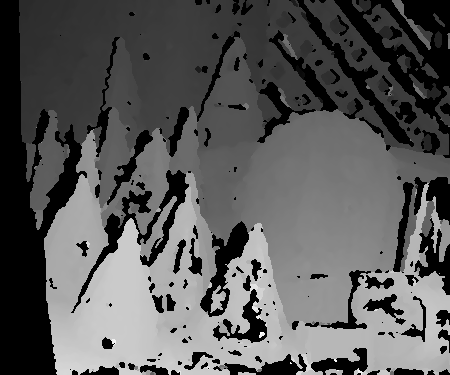
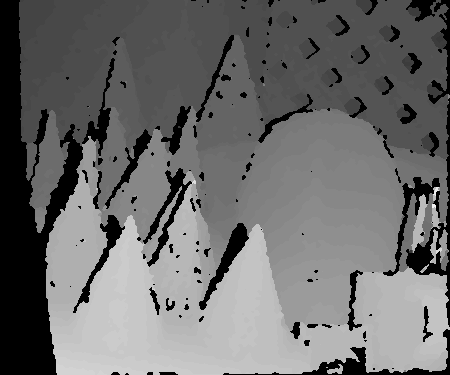
2022_08_09_Test

diff --git a/SemiGlobalMatching.cpp b/SemiGlobalMatching.cpp
@@ -65,57 +65,6 @@ SemiGlobalMatching::initialize(const uint32 &width, const uint32 &height, const 
     return this->isInitialized_;
 }
 
-//bool SemiGlobalMatching::match(const uint8 *imgLeft, const uint8 *imgRight, float32 *dispLeft) {
-//    if (!this->isInitialized_) {
-//        return false;
-//    }
-//
-//    if (imgLeft == nullptr || imgRight == nullptr) {
-//        return false;
-//    }
-//
-//    this->imgLeft_ = imgLeft;
-//    this->imgRight_ = imgRight;
-//
-//    // census变换
-//    censusTransform();
-//
-//    // 代价计算
-//    computeCostCensus();
-//
-//    // 代价聚合
-//    costAggregation();
-//    SGMUtil::costAggregateBilateralFiltering(this->imgLeft_, this->width_, this->height_,
-//                                             this->option_.minDisparity, this->option_.maxDisparity,
-//                                             5, 20, 5, this->costInit_, this->costAggr_);
-//
-//
-//    // 视差计算
-//    computeDisparityBase();
-//    computeDisparityBase2();
-//    computeDisparity();
-//
-//    // 左右一致性检查
-//    if (option_.isCheckLR) {
-//        // 视差计算（右影像）
-//        computeDisparityRight();
-//        // 一致性检查
-//        lrCheck();
-//    }
-//
-//    // 移除小连通区
-//    if (option_.isRemoveSpeckles) {
-//        SGMUtil::removeSpeckles(dispLeft_, width_, height_, option_.diffRange, option_.minSpeckleArea, Invalid_Float);
-//    }
-//
-//    // 中值滤波
-//    SGMUtil::medianFilter(dispLeft_, dispLeft_, width_, height_, 3);
-//
-//    memcpy(dispLeft, this->dispLeft_, this->width_ * this->height_ * sizeof(float32));
-//
-//    return true;
-//}
-
 bool SemiGlobalMatching::match(const uint8 *imgLeft, const uint8 *imgRight, float32 *dispLeft) {
     if (!this->isInitialized_) {
         return false;
@@ -128,7 +77,11 @@ bool SemiGlobalMatching::match(const uint8 *imgLeft, const uint8 *imgRight, floa
     this->imgLeft_ = imgLeft;
     this->imgRight_ = imgRight;
 
-    computeCostSAD();
+    // census变换
+    censusTransform();
+
+    // 代价计算
+    computeCostCensus();
 
     // 代价聚合
 //    costAggregation();
@@ -138,8 +91,8 @@ bool SemiGlobalMatching::match(const uint8 *imgLeft, const uint8 *imgRight, floa
 
 
     // 视差计算
-//    computeDisparityBase();
-//    computeDisparityBase2();
+    computeDisparityBase();
+    computeDisparityBase2();
     computeDisparity();
 
     // 左右一致性检查
@@ -162,6 +115,53 @@ bool SemiGlobalMatching::match(const uint8 *imgLeft, const uint8 *imgRight, floa
 
     return true;
 }
+
+//bool SemiGlobalMatching::match(const uint8 *imgLeft, const uint8 *imgRight, float32 *dispLeft) {
+//    if (!this->isInitialized_) {
+//        return false;
+//    }
+//
+//    if (imgLeft == nullptr || imgRight == nullptr) {
+//        return false;
+//    }
+//
+//    this->imgLeft_ = imgLeft;
+//    this->imgRight_ = imgRight;
+//
+//    computeCostSAD();
+//
+//    // 代价聚合
+////    costAggregation();
+//    SGMUtil::costAggregateBilateralFiltering(this->imgLeft_, this->width_, this->height_,
+//                                             this->option_.minDisparity, this->option_.maxDisparity,
+//                                             5, 20, 5, this->costInit_, this->costAggr_);
+//
+//
+//    // 视差计算
+////    computeDisparityBase();
+////    computeDisparityBase2();
+//    computeDisparity();
+//
+//    // 左右一致性检查
+//    if (option_.isCheckLR) {
+//        // 视差计算（右影像）
+//        computeDisparityRight();
+//        // 一致性检查
+//        lrCheck();
+//    }
+//
+//    // 移除小连通区
+//    if (option_.isRemoveSpeckles) {
+//        SGMUtil::removeSpeckles(dispLeft_, width_, height_, option_.diffRange, option_.minSpeckleArea, Invalid_Float);
+//    }
+//
+//    // 中值滤波
+//    SGMUtil::medianFilter(dispLeft_, dispLeft_, width_, height_, 3);
+//
+//    memcpy(dispLeft, this->dispLeft_, this->width_ * this->height_ * sizeof(float32));
+//
+//    return true;
+//}
 
 //bool SemiGlobalMatching::match(const uint8 *imgLeft, const uint8 *imgRight, float32 *dispLeft) {
 //    if (!this->isInitialized_) {

diff --git a/main.cpp b/main.cpp
@@ -100,10 +100,12 @@ int main() {
             if (disp == Invalid_Float) {
                 dispMat.data[i * width + j] = 0;
             } else {
-                dispMat.data[i * width + j] = static_cast<uchar>((disp - minDisp) / (maxDisp - minDisp) * 255);
+                // dispMat.data[i * width + j] = static_cast<uchar>((disp - minDisp) / (maxDisp - minDisp) * 255);
+                dispMat.data[i * width + j] = static_cast<uchar>(disp);
             }
         }
     }
+    dispMat.convertTo(dispMat, CV_8U, 255 / 64.);
     cv::imwrite("../dispMap.png", dispMat);
     cv::imshow("dispMap", dispMat);
 
